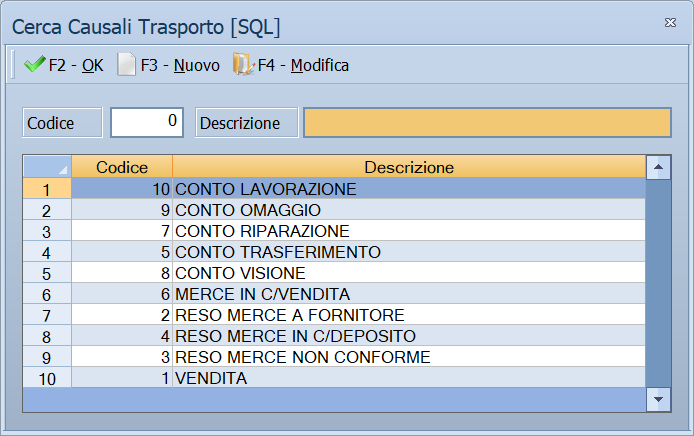
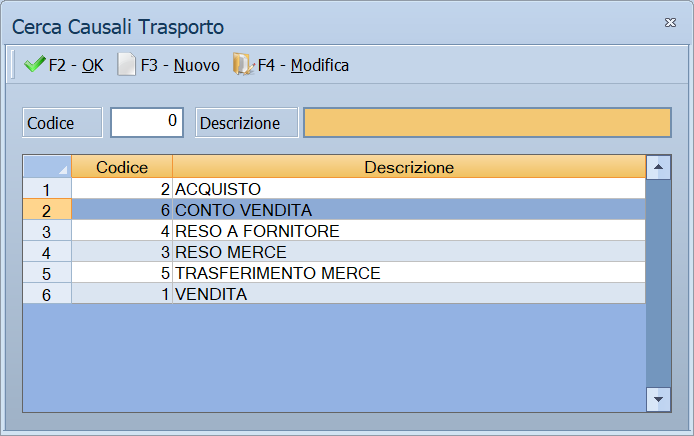
Causali di trasporto: la finestra di ricerca si chiama Cerca Causali Trasporto
Tolto "[SQL]" dal titolo nel programma; aggiornati il testo e la schermata
dell'elenco.

Changed region(s): [[0.0303, 0.3876, 0.938, 0.8945], [0.3329, 0.0298, 0.4236, 0.0894]]

diff --git a/docs/moduli/altre-tabelle/note-aspetto-trasporto.md b/docs/moduli/altre-tabelle/note-aspetto-trasporto.md
@@ -58,7 +58,7 @@ Differita**, descritta nella tabella dei [campi](#campi).
 ![Elenco delle causali di trasporto](../../assets/img/altre-tabelle/causali-trasporto-elenco.png)
 
 Premendo **F5 - Cerca** si apre l'elenco della tabella su cui stai lavorando —
-per le causali la finestra **Cerca Causali Trasporto [SQL]** — con le colonne
+per le causali la finestra **Cerca Causali Trasporto** — con le colonne
 **Codice** e **Descrizione**.
 
 Dalla barra dei comandi: **F2 - OK** sceglie la voce selezionata (vale anche il
